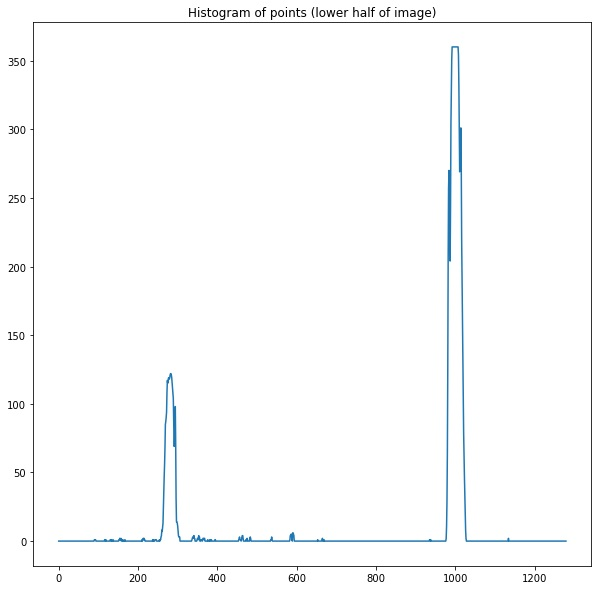
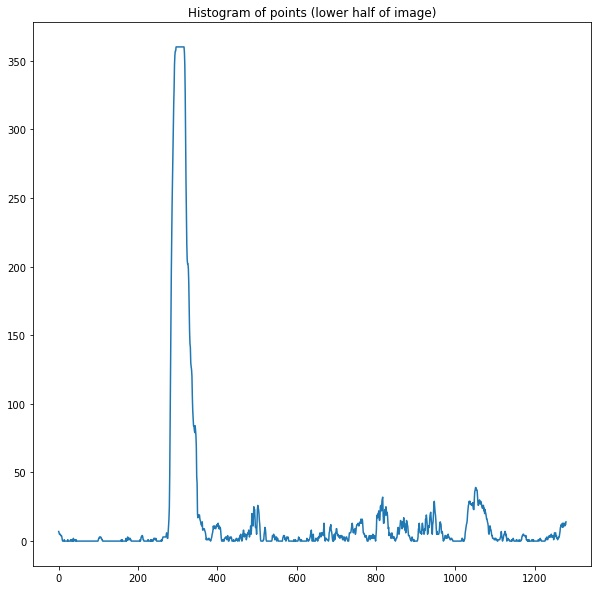
Updating report

Changed region(s): [[0.2093, 0.061, 0.9568, 0.9458], [0.0897, 0.8847, 0.1196, 0.9153]]

diff --git a/detect_lines.py b/detect_lines.py
@@ -453,7 +453,7 @@ def pipeline(img, first_frame, left_fit, right_fit, ploty):
     
     corrected_img, M                    = correct_image(combined, False)
     if first_frame == True:
-        left_fit, right_fit, ploty          = find_initial_lanes(corrected_img, False)
+        left_fit, right_fit, ploty          = find_initial_lanes(corrected_img, True)
     else:
         left_fit, right_fit, ploty          = find_next_lanes(corrected_img, left_fit, right_fit, False)
         
@@ -488,7 +488,7 @@ def pipeline(img, first_frame, left_fit, right_fit, ploty):
     
     
 # Make a list of test imagesq
-test_video=True
+test_video=False
 
 if test_video == True:
     left_fit = 0
